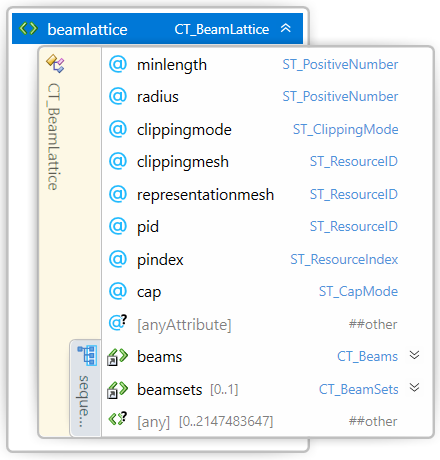
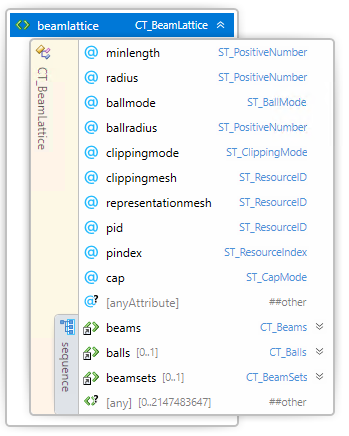
Version 1.1.0: New geometry type "ball" (#32)
* Update 3MF Beam Lattice Extension.md

* Update for 1.1.0 changes

* beam and ball image

* Fix beamset's for addition of balls

* Some language changes for the addition of balls

* add ball xml image

* Added ball xml image

* images of xml structure for balls and ballref

* images for balls and ballref

* Update beamset to include ballref

* Update to beamlattice xml image to include balls

* Ball vertex must be the end of a beam

* Update to add balls

* Transforms must be applied to representation and clipping meshes

* Update language around clippingmesh (issue #25)

* State representationmesh can't contain a beamlattice - issue 27

* Tidy up section, TOC and figure numbering - issue #19

* Removed note about mirroring (issue #23), tighten language for ballmode=all

* Language change to address issue #22

* Update to address issue #31

* update for issue #24

* update for issue #29

* minor change for issue #24

* Update for issue #28

* Fixed minlength

* One more change to minlength

* Prepare for publication

https://github.com/3MFConsortium/3mf-admin/blob/master/Voting/3MF_Beamlattice_V1.1.md

diff --git a/3MF Beam Lattice Extension.md b/3MF Beam Lattice Extension.md
@@ -12,7 +12,7 @@
 
 
 
-| **Version** | 1.0.4 |
+| **Version** | 1.1.0 |
 | --- | --- |
 | **Status** | Published |
 
@@ -23,14 +23,14 @@ THESE MATERIALS ARE PROVIDED "AS IS." The contributors expressly disclaim any wa
 ## Table of Contents
 
 - [Preface](#preface)
-  * [1.1. About this Specification](#11-about-this-specification)
+  * [About this Specification](#11-about-this-specification)
   * [Document Conventions](#document-conventions)
   * [Language Notes](#language-notes)
   * [Software Conformance](#software-conformance)
 - [Part I: 3MF Documents](#part-i-3mf-documents)
 - [Chapter 1. Overview of Additions](#chapter-1-overview-of-additions)
 - [Chapter 2. Object](#chapter-2-object)
-  * [1.1. Beamlattice](#11-beamlattice)
+  * [2.1. Beamlattice](#11-beamlattice)
 - [Part II. Appendixes](#part-ii-appendixes)
   * [Appendix A. Glossary](#appendix-a-glossary)
   * [Appendix B. 3MF XSD Schema](#appendix-b-3mf-xsd-schema)
@@ -40,7 +40,7 @@ THESE MATERIALS ARE PROVIDED "AS IS." The contributors expressly disclaim any wa
 
 # Preface
 
-## 1.1. About this Specification
+## About this Specification
 
 This 3MF beam lattice specification is an extension to the core 3MF specification. This document cannot stand alone and only applies as an addendum to the core 3MF specification. Usage of this and any other 3MF extensions follow an a la carte model, defined in the core 3MF specification.
 
@@ -82,7 +82,7 @@ While this is meant to be an exact specification of the lattice geometry, and co
 
 A producer using the lattice specification MUST mark the extension as required, as described in the core specification.
 
-##### Figure 2-1: Overview of model XML structure of 3MF with beam lattice additions
+##### Figure 1-1: Overview of model XML structure of 3MF with beam lattice additions
 
 #####
 ![Overview of model XML structure of 3MF with beam lattice additions](images/figure_2-1.png)
@@ -95,17 +95,15 @@ Element **\<mesh>**
 
 This 3MF extension specification defines a new \<beamlattice> element that lives as child of the \<mesh> element from the core 3MF specification, as the lattice structures are intended to be subject to the same coordinate system as the underlying mesh.  A beamlattice MUST only be added to a mesh object of type "model" or "solidsupport".
 
-The triangle mesh geometry MUST be unified with the lattice geometry according to the positive fill rule (for the triangles). In case of an overlap, the properties of the triangle mesh geometry MUST prevail in the overlapping region.
+The positive fill rule (as defined in the Core Specification) MUST first be applied to the triangle mesh geometry and lattice geometry separately and independently. Then the triangle mesh geometry MUST be unified with the lattice geometry according to the positive fill rule (for the triangles). In case of an overlap, the properties of the triangle mesh geometry MUST prevail in the overlapping region.
 
 If a beamlattice is added to a mesh object, the mesh MAY consist of no triangles. This allows the representation of lattice-only objects.
 
 >**Note:** This is relaxing the rules of the core specification, but is not a breaking change, as the beamlattice extension MUST always be a required extension.
 
-This implies that the geometric surface of the lattice MUST be transformed as the mesh itself, i.e. translated, rotated, scaled and sheared as defined in the build items and components of the core specification.
+This implies that the geometric surface of the lattice MUST be transformed as the mesh itself, i.e. translated, rotated, scaled, mirrored and sheared as defined in the build items and components of the core specification. Should the beam lattice contain a clipping mesh or a representation mesh then any transform applied to the lattice MUST also be applied to these meshes.
 
->**Note:** The corresponding rules for mirroring are applied implicitly.
-
-## 1.1. Beamlattice
+## 2.1. Beamlattice
 
 Element **\<beamlattice>**
 
@@ -114,20 +112,24 @@ Element **\<beamlattice>**
 
 | Name   | Type   | Use   | Default   | Annotation |
 | --- | --- | --- | --- | --- |
-| minlength | **ST\_PositiveNumber** | required |   | A producer MUST specify the minimal length of all beams in the lattice. The producer MUST NOT produce zero length beams (i.e. shorter than minlength). The consumer MUST ignore all beams with length shorter than minlength. |
+| minlength | **ST\_PositiveNumber** | required |   | A producer MUST specify the minimal length of all beams in the lattice. The producer SHOULD NOT produce zero length beams (i.e. shorter than minlength). The consumer MUST ignore all beams with length shorter than minlength. |
 | radius   | **ST\_PositiveNumber** | required |   | Default uniform radius value for the beams. |
+| ballmode | **ST\_BallMode** | optional | none | Specifies whether balls are created at beam vertices. Possible values are:<br/>- **none** : No balls are created at beam vertices. <br/>- **mixed** : balls are created at vertices with a corresponding \<ball> element.  Other vertices do not get a ball. <br/>- **all** : balls are created at every vertex that maps to the end of a beam, using either ballradius or what is specified in a corresponding \<ball> element for that vertex, if present. |
+| ballradius   | **ST\_PositiveNumber** | optional |   | Default uniform radius value for the balls. Required if ballmode is different to "none". |
 | clippingmode | **ST\_ClippingMode** | optional | none | Specifies the clipping mode of the beam lattice. Possible values are:<br/>- **none** : The lattice is not clipped at any mesh boundary.<br/>- **inside** : The lattice is clipped by the volume described by the referenced clippingmesh. All geometry inside the volume (according to the positive fill rule) is retained.<br/>- **outside** : The lattice is clipped by the volume described by the referenced clippingmesh. All geometry outside the volume (according to the positive fill rule) is retained.<br/>If clipping mode is not equal to "none", a clippingmesh resource MUST be specified. |
 | clippingmesh   | **ST\_ResourceID** | optional   |   | Required, if clippingmode is different to "none". The clippingmesh attribute MUST reference an object id earlier in the file. The object MUST be a mesh object of type "model" (i.e. not a components object), and MUST NOT contain a beamlattice. The clippingmesh id MUST NOT be a self-reference (i.e. the id references the object that contains the beam lattice). |
-| representationmesh | **ST\_ResourceID** | optional  |   | References a mesh object that represents the intentional shape of the lattice geometry. It is up to the producer to decide the appropriate level of fidelity of the geometry. The consumer MAY use this for display and preview purposes and MUST NOT use it for manufacturing the part.<br>The object MUST be a mesh object of type "model" (i.e. not a components object). The representationmesh id MUST NOT be a self-reference (i.e. the id references the object that contains the beam lattice). The representationmesh attribute MUST reference an object id earlier in the file. |
+| representationmesh | **ST\_ResourceID** | optional  |   | References a mesh object that represents the intentional shape of the lattice geometry. It is up to the producer to decide the appropriate level of fidelity of the geometry. The consumer MAY use this for display and preview purposes and MUST NOT use it for manufacturing the part.<br>The object MUST be a mesh object of type "model" (i.e. not a components object) and MUST NOT contain a beamlattice. The representationmesh id MUST NOT be a self-reference (i.e. the id references the object that contains the beam lattice). The representationmesh attribute MUST reference an object id earlier in the file. |
 | pid | **ST\_ResourceID** | optional |   | Overrides the object-level pid as default for all beams. |
 | pindex | **ST\_ResourceIndex** | optional |   | Overrides the object-level pindex as default for all beams. |
 | cap   | **ST\_CapMode** | optional | sphere   | Default capping mode for beam ends (see below). Possible values:<br/>- "hemisphere": the beam end will be closed at its end nodes by a half sphere.<br/>- "sphere": the beam end will be closed at its end nodes by a sphere.<br/>- "butt": the beam end will be closed with a flat end and therefore have a cylindrical or conical shape. |
 
 A _beam lattice node_ provides information about _lattice_ data, in the form of a simplistic node-beam model as part of the mesh.
 
-A \<beamlattice> element acts as a container for beams and beam sets. The lattice MAY be geometrically clipped against a reference mesh. The clipping mode determines which parts of the lattice define the final geometry.
+A \<beamlattice> element acts as a container for beams, balls and beam sets. The lattice MAY be geometrically clipped against a reference mesh as defined by the clippingmode and clippingmesh attributes. The clipping mode determines which parts of the lattice define the final geometry. Consumers MUST clip the beam lattice when a clippingmesh is provided and the clippingmode is not equal to "none".  The clipped surfaces of the lattice MUST inherit any properties (for example, color) from the clippingmesh.
 
-##### Figure 2-2: Example images of clipping modes of a lattice against a sphere mesh
+If this beam lattice contains any beam or ball with assigned properties, the beam lattice or object MUST specify pid and pindex, to act as default values for any beam or ball with unspecified properties.
+
+##### Figure 2-1: Example images of clipping modes of a lattice against a sphere mesh
 
 
 ![Clipping setup](images/clipping_setup.png)
@@ -138,7 +140,7 @@ The lattice is to be clipped against a spherical clippingmesh.
 | :---: | :---: | :---: |
 | Clippingmode "none" leaves the lattice unchanged. | Clippingmode "inside" constrains the lattice to the inside of the sphere.  | Clippingmode "outside" constrains the lattice to the outside of the sphere. |
 
-### 1.1.1. Beams
+### 2.1.1. Beams
 
 Element **\<beams>**
 
@@ -148,7 +150,7 @@ A _beam lattice node_ contains a _beams node_ that contains all the beam data.
 
 A \<beams> element acts as a container for beams. The order of these elements forms an implicit 0-based index that can be referenced by metadata. A beams element MUST NOT contain more than 2^31-1 beams.
 
-#### 1.1.1.1. Beam elements
+#### 2.1.1.1. Beam elements
 
 Element **\<beam>**
 
@@ -170,12 +172,12 @@ Lattice beams are attached to standard vertex elements of the mesh object. This 
 
 >**Note:** This might lead to vertex elements in the 3MF that are not part of the mesh surface.
 
-A beam element represents a single beam of the beamlattice. A beam follows a line with two attached radii at the ends, which are interpolated linearly over the line. A beam MUST consist of two distinct vertex indices, and MUST have a minimum distance of the lattice's minlength (in the local coordinate frame).
+A beam element represents a single beam of the beamlattice. A beam follows a line with two attached radii at the ends, which are interpolated linearly over the line. A beam MUST consist of two distinct vertex indices, and SHOULD have a minimum distance of the lattice's minlength (in the local coordinate system, before applying any transform).
 
 | ![vertex radii](images/vertex_radii.png) | ![vertex radii interpolation](images/vertex_radii_interpolation.png) |
 | --- | --- |
 
-The beam geometry is given by a conical frustum, while the beam's end geometry is given by the capmode.
+The beam geometry is given by a conical frustum. If a ball is defined at the end vertex, the beam's end geometry is given by the union of the ball and the cap geometry, as defined by the capmode.
 
 - If the capmode is "butt", the frustum is kept with flat ends.
 - If the capmode is "sphere", the frustum is capped with spheres of specified radii.
@@ -189,7 +191,9 @@ A beam MAY combine two different capmodes on either vertex.
 
 >**Note** : In case of cylinders (i.e. both radii of a beam are equal), the notion of sphere and hemisphere leads to the same geometry.
 
-The unification of all beam geometries of a beamlattice and the triangle mesh will give a well-defined lattice geometry. Within the beamlattice, the surface properties of the geometry will be given by the unification of the surface properties of the beam elements. In the case of overlapping surface regions, the last beam MUST prevail, analogous to the corresponding overlapping rules of the core specification.
+The unification of all beam and ball geometries of a beamlattice and the triangle mesh will give a well-defined lattice geometry. To guarentee this, all beams MUST be capped prior to the unification process.
+
+Within the beamlattice, the surface properties of the geometry will be given by the unification of the surface properties of the beam elements. In the case of overlapping surface regions, the last beam MUST prevail, analogous to the corresponding overlapping rules of the core specification.
 
 ![geometry unification](images/unification.png)
 
@@ -199,15 +203,48 @@ The beam radii can be given by a variety of combinations. These MUST be interpre
 - If only r1 is given, the beam will be cylindrical with radius r1.
 - If no radius is given, the beam will be cylindrical with the radius defined in the beamlattice.
 
-Property values MUST be applied over the line as they would be applied over the triangles of the mesh. See the core specification and materials extension for details and restrictions. The property values shall extend from the line to the surface of the beam geometry by applying the nearest neighbor on the line. In the unification process of the beams, ambiguities of the corresponding surface properties are likely to occur. In this case, the property of the last beam in the beamlattice order MUST be used, consistent with the core specification.
+Property values MUST be applied over the axial line as they would be applied over the triangles of the mesh. See the core specification and materials extension for details and restrictions. The property values shall extend from the line to the surface of the beam geometry by applying the nearest neighbor on the line. In the unification process of the beams, ambiguities of the corresponding surface properties are likely to occur. In this case, the property of the last beam in the beamlattice order MUST be used, consistent with the core specification.
 
 | ![properties applied to nodes](images/properties_1.png) | ![properties applied to line](images/properties_2.png) | ![properties applied to beam](images/properties_3.png)|
 | --- | --- | --- |
 | _Properties applied to nodes_ | _Properties applied to line_ | _Properties extended to beam surface_ |
 
->**Note:** Properties MUST be applied in the local coordinate system.
+>**Note:** Properties MUST be applied in the local coordinate system, before applying any transform.
 
-### 1.1.2. Beamsets
+>**Note:** Properties defined on a beam that are from a display properties group MUST NOT form gradients, as interpolation between physically based materials is not defined in the core specification. A consumer MUST apply the p1 property to the entire beam. Property p2 MUST be either unspecified or MUST be equal to p1.
+
+### 2.1.2. Balls
+Element **\<balls>**
+
+![balls XML structure](images/balls.png)
+
+A _beam lattice node_ can contain a _balls node_ that contains spheres around vertices at beam ends. This allows, for example, dumbbell shaped beams and rod and ball lattices.
+
+A \<balls> element acts as a container for ball elements. The order of these elements forms an implicit 0-based index that can be referenced by metadata. A balls element MUST contain at least one ball element and MUST NOT contain more than 2^31-1 ball elements.
+
+### 2.1.2.1 Ball
+Element **\<ball>**
+
+![ball XML structure](images/ball.png)
+
+| Name   | Type   | Use   | Default   | Annotation |
+| --- | --- | --- | --- | --- |
+| vindex   | **ST\_ResourceIndex** | required |    | References a zero-based index into the vertices of this mesh. Defines the vertex that serves as the center for this ball. |
+| r   | **ST\_PositiveNumber** | optional |    | The radius of this ball. |
+| p | **ST\_ResourceIndex** | optional |   | Overrides the beamlattice-level pindex for this sphere. |
+| pid | **ST\_ResourceID** | optional |   | Overrides the beamlattice-level pid for this beam. |
+
+The _ball element_ defines a sphere of a given radius centered at the position of the vertex defined by "vindex".  The vertex defined by "vindex" MUST be the end vertex of at least one beam.
+
+If the attribute "r" is not given, the default "ballradius" of the enclosing beamlattice MUST be used as the radius of the ball. 
+
+![beam and ball unification](images/ballandbeam3.png)
+
+Property values MUST be applied over the sphere as they would be applied over the triangles of the mesh. See the core specification and materials extension for details and restrictions.
+
+In the unification process of the beams and balls, ambiguities of the corresponding surface properties are likely to occur. In the case that the unification process contains only balls and there are ambiguities, the property of the last ball in the beam lattice MUST be used, consistent with the core specification. If the unification process involved beams and there are ambiguities, the property of the last beam in the beamlattice order MUST be used, consistent with the core specification.
+
+### 2.1.3. Beamsets
 
 Element **\<beamsets>**
 
@@ -215,9 +252,9 @@ Element **\<beamsets>**
 
 A _beam lattice node_ MAY contain a _beamsets node_ that contains information how beams are grouped and organized.
 
-A \<beamsets> element acts as a container for beamset nodes. The order of these elements forms an implicit 0-based index that MAY be referenced by metadata.
+A \<beamsets> element acts as a container for beamset nodes. The order of these elements forms an implicit 0-based index that MAY be referenced externally by their identifier.
 
-### 1.1.3. Beam Set-Elements
+### 2.1.4. Beam Set-Elements
 
 Element **\<beamset>**
 
@@ -226,11 +263,15 @@ Element **\<beamset>**
 | Name   | Type   | Use   | Default   | Annotation |
 | --- | --- | --- | --- | --- |
 | name   | **ST\_String**   | optional   |   | Human-readable name of the beam collection |
-| identifier | **ST\_String** | optional |   | Might be used for external identification of the beam collection data. Does not need to be unique. |
+| identifier | **ST\_String** | optional |   | Might be used for external identification of the beam collection data. The identifier attribute MUST be unique within the beam lattice. |
 
-A _beam set_ contains a reference list to a subset of beams to apply grouping operations and assign properties to a list of beams. Editing applications might use this information for internal purposes, for example color display and selection workflows.
+A _beam set_ contains a reference list to a subset of beams and a reference list to a subset of balls to apply grouping operations and assign properties to a list of beams. Editing applications might use this information for internal purposes, for example color display and selection workflows.
 
-#### 1.1.3.1. Beam Set References
+A beamset is a collection of references to beams and balls. Since beamsets do not have a specific influence on the geometrical shape, a consumer MAY ignore the information.
+
+A consumer MUST ignore duplicate references to the same beam or ball in one set. A producer SHOULD avoid creating duplicate references to the same beam or ball in one set.
+
+#### 2.1.4.1. Beam Set References
 
 Element **\<ref>**
 
@@ -242,10 +283,18 @@ Element **\<ref>**
 
 A \<ref> element in a beam set refers to the zero-based indexed \<beam> elements that are contained in the _beamlattice node._
 
-A beamset is a collection of references to beams. Since beamsets do not have a specific influence on the geometrical shape, a consumer MAY ignore the information.
 
-A consumer MUST ignore duplicate references to the same beam in one set. A producer SHOULD avoid creating duplicate references to the same beam in one set.
+#### 2.1.4.2. Ball References
 
+Element **\<ballref>**
+
+![ballref](images/ballref.png)
+
+| Name   | Type   | Use   | Default   | Annotation |
+| --- | --- | --- | --- | --- |
+| index   | **ST\_ResourceIndex**   | required   |   | References an index in the beamlattice ball list. |
+
+A \<ballref> element in a beam set refers to the zero-based indexed \<ball> elements that are contained in the _beamlattice node._
 
 
 # Part II. Appendixes
@@ -283,11 +332,14 @@ See [the 3MF Core Specification glossary](https://github.com/3MFConsortium/spec_
   <xs:complexType name="CT_BeamLattice">
     <xs:sequence>
        <xs:element ref="beams"/>
+       <xs:element ref="balls" minOccurs="0" maxOccurs="1"/>
        <xs:element ref="beamsets" minOccurs="0" maxOccurs="1"/>
        <xs:any namespace="##other" processContents="lax" minOccurs="0" maxOccurs="2147483647"/> 
     </xs:sequence>
     <xs:attribute name="minlength" type="ST_PositiveNumber" use="required"/>
     <xs:attribute name="radius" type="ST_PositiveNumber" use="required"/>
+    <xs:attribute name="ballmode" type="ST_BallMode" default="none"/>
+    <xs:attribute name="ballradius" type="ST_PositiveNumber"/>
     <xs:attribute name="clippingmode" type="ST_ClippingMode" default="none"/>
     <xs:attribute name="clippingmesh" type="ST_ResourceID" />
     <xs:attribute name="representationmesh" type="ST_ResourceID" />
@@ -317,9 +369,29 @@ See [the 3MF Core Specification glossary](https://github.com/3MFConsortium/spec_
         <xs:any namespace="##other" processContents="lax" minOccurs="0" maxOccurs="2147483647"/>
       </xs:sequence>
   </xs:complexType>
+  <xs:complexType name="CT_Ball">
+     <xs:sequence>
+       <xs:any namespace="##other" processContents="lax" minOccurs="0" maxOccurs="2147483647"/>
+     </xs:sequence>
+    <xs:attribute name="vindex" type="ST_ResourceIndex" use="required" />
+    <xs:attribute name="r" type="ST_PositiveNumber" />
+    <xs:attribute name="p" type="ST_ResourceIndex" />
+    <xs:attribute name="pid" type="ST_ResourceID" />
+    <xs:anyAttribute namespace="##other" processContents="lax"/>
+  </xs:complexType>
+  <xs:complexType name="CT_Balls">
+      <xs:sequence>
+        <xs:element ref="ball" minOccurs="1" maxOccurs="2147483647"/>
+        <xs:any namespace="##other" processContents="lax" minOccurs="0" maxOccurs="2147483647"/>
+      </xs:sequence>
+  </xs:complexType>
   <xs:complexType name="CT_BeamSet">
     <xs:sequence>
       <xs:element ref="ref" minOccurs="0" maxOccurs="2147483647"/>
+      <xs:any namespace="##other" processContents="lax" minOccurs="0" maxOccurs="2147483647"/> 
+    </xs:sequence>
+    <xs:sequence>
+      <xs:element ref="ballref" minOccurs="0" maxOccurs="2147483647"/>
       <xs:any namespace="##other" processContents="lax" minOccurs="0" maxOccurs="2147483647"/> 
     </xs:sequence>
     <xs:attribute name="name" type="xs:string"/>
@@ -339,7 +411,21 @@ See [the 3MF Core Specification glossary](https://github.com/3MFConsortium/spec_
     <xs:attribute name="index" type="ST_ResourceIndex" use="required"/>
     <xs:anyAttribute namespace="##other" processContents="lax"/>
   </xs:complexType>
+   <xs:complexType name="CT_BallRef">
+    <xs:sequence>
+      <xs:any namespace="##other" processContents="lax" minOccurs="0" maxOccurs="2147483647"/>
+    </xs:sequence>
+    <xs:attribute name="index" type="ST_ResourceIndex" use="required"/>
+    <xs:anyAttribute namespace="##other" processContents="lax"/>
+  </xs:complexType>
   <!-- Simple Types -->
+  <xs:simpleType name="ST_BallMode">
+    <xs:restriction base="xs:string">
+      <xs:enumeration value="none"/>
+      <xs:enumeration value="mixed"/>
+      <xs:enumeration value="all"/>
+    </xs:restriction>
+  </xs:simpleType>
   <xs:simpleType name="ST_ClippingMode">
     <xs:restriction base="xs:string">
       <xs:enumeration value="none"/>
@@ -373,7 +459,10 @@ See [the 3MF Core Specification glossary](https://github.com/3MFConsortium/spec_
   <!-- Elements -->
   <xs:element name="beam" type="CT_Beam"/>
   <xs:element name="beams" type="CT_Beams"/>
+  <xs:element name="ball" type="CT_Ball"/>
+  <xs:element name="balls" type="CT_Balls"/>
   <xs:element name="ref" type="CT_Ref"/>
+  <xs:element name="ballref" type="CT_BallRef"/>
   <xs:element name="beamset" type="CT_BeamSet"/>
   <xs:element name="beamsets" type="CT_BeamSets"/>
   <xs:element name="beamlattice" type="CT_BeamLattice"/>
